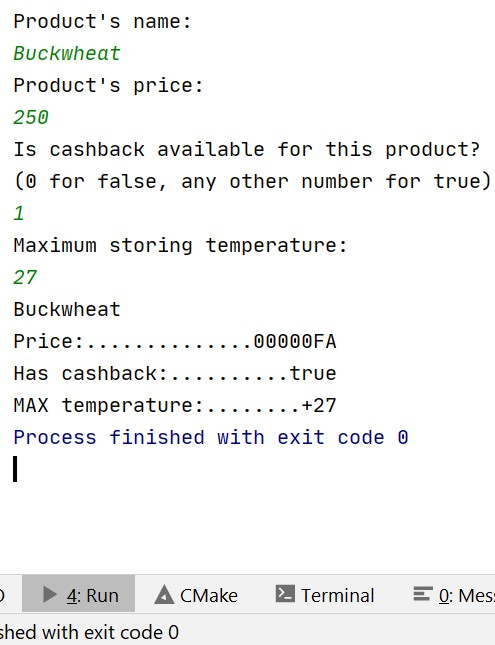
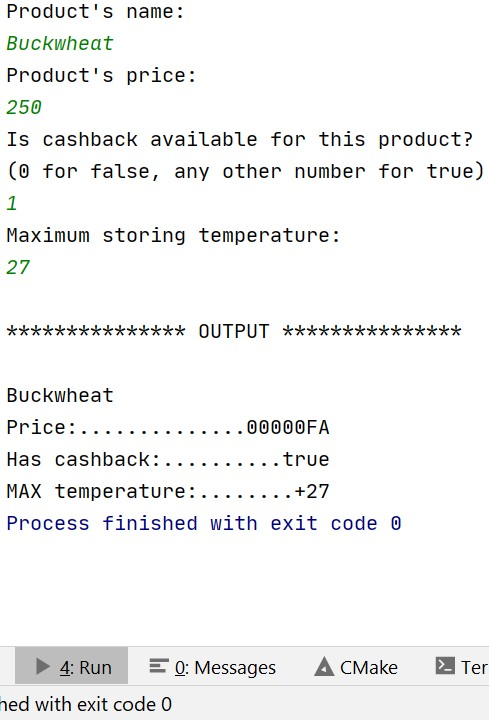
improved readability

diff --git a/work/cpptasks/code/main.cpp b/work/cpptasks/code/main.cpp
@@ -6,16 +6,16 @@ int main() {
     int price, temperature;
     bool hasCashback;
     const int RIGHT_WIDTH = 7, LEFT_WIDTH = 20;
-
     std::cout << "Product's name:" << std::endl;
     std::cin >> name;
     std::cout << "Product's price:" << std::endl;
     std::cin >> price;
-    std::cout << "Is cashback available for this product?\n(0 for false, any other number for true)"
-    << std::endl;
+    std::cout << "Is cashback available for this product?\n(0 for false, any other number for true)" << std::endl;
     std::cin >> hasCashback;
     std::cout << "Maximum storing temperature:" << std::endl;
     std::cin >> temperature;
+
+    std::cout << '\n' << std::string(15, '*') << " OUTPUT " << std::string(15, '*') << "\n\n";
 
     std::cout << name << std::endl;
 
